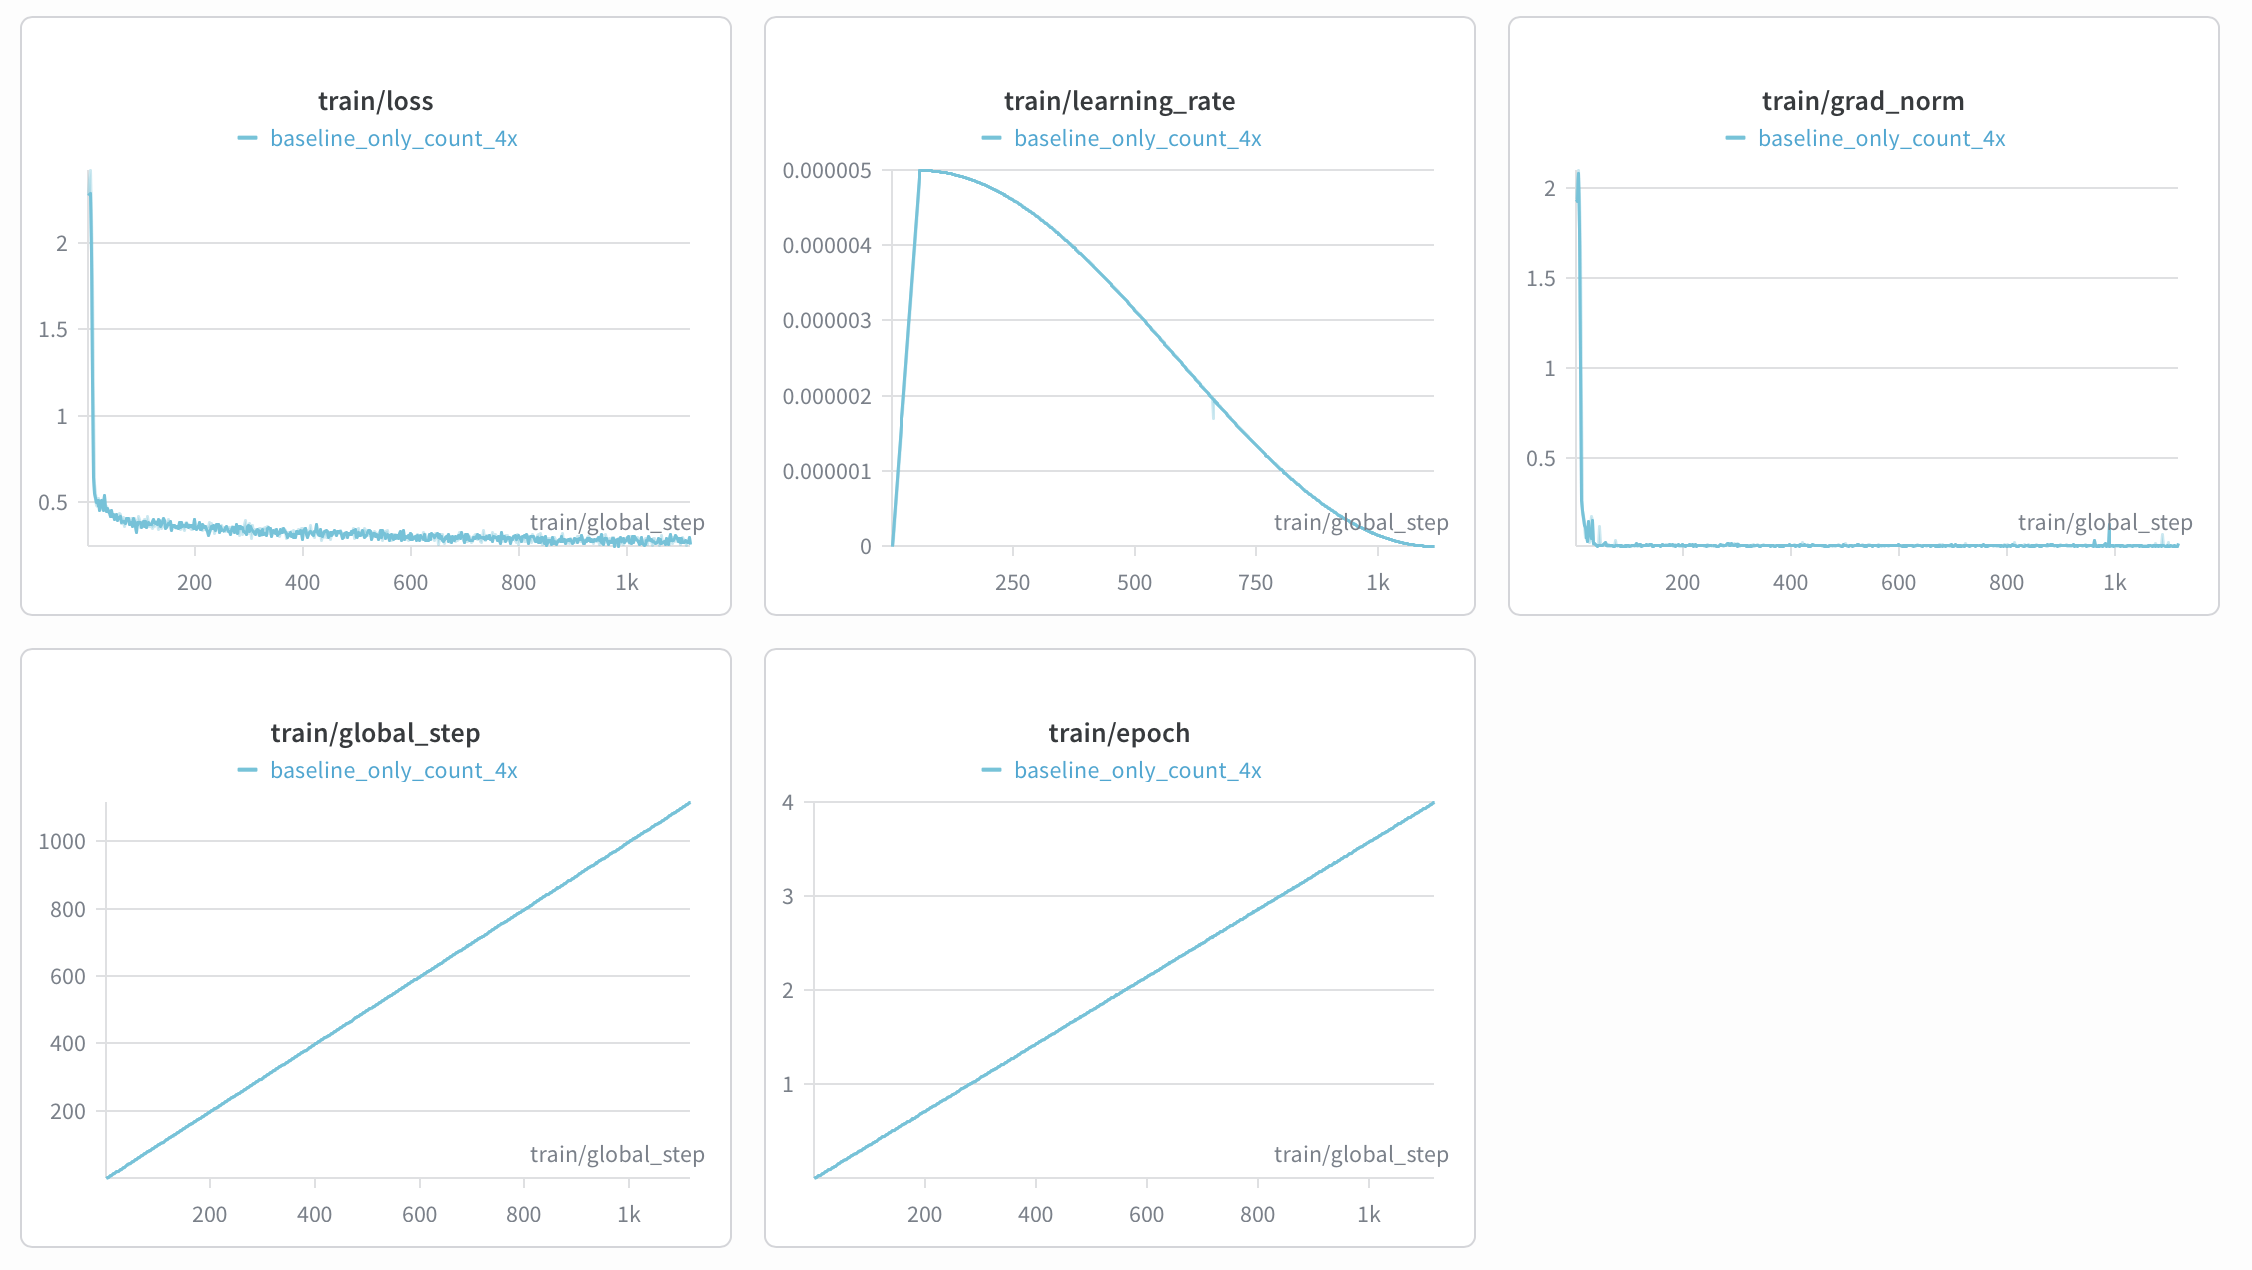
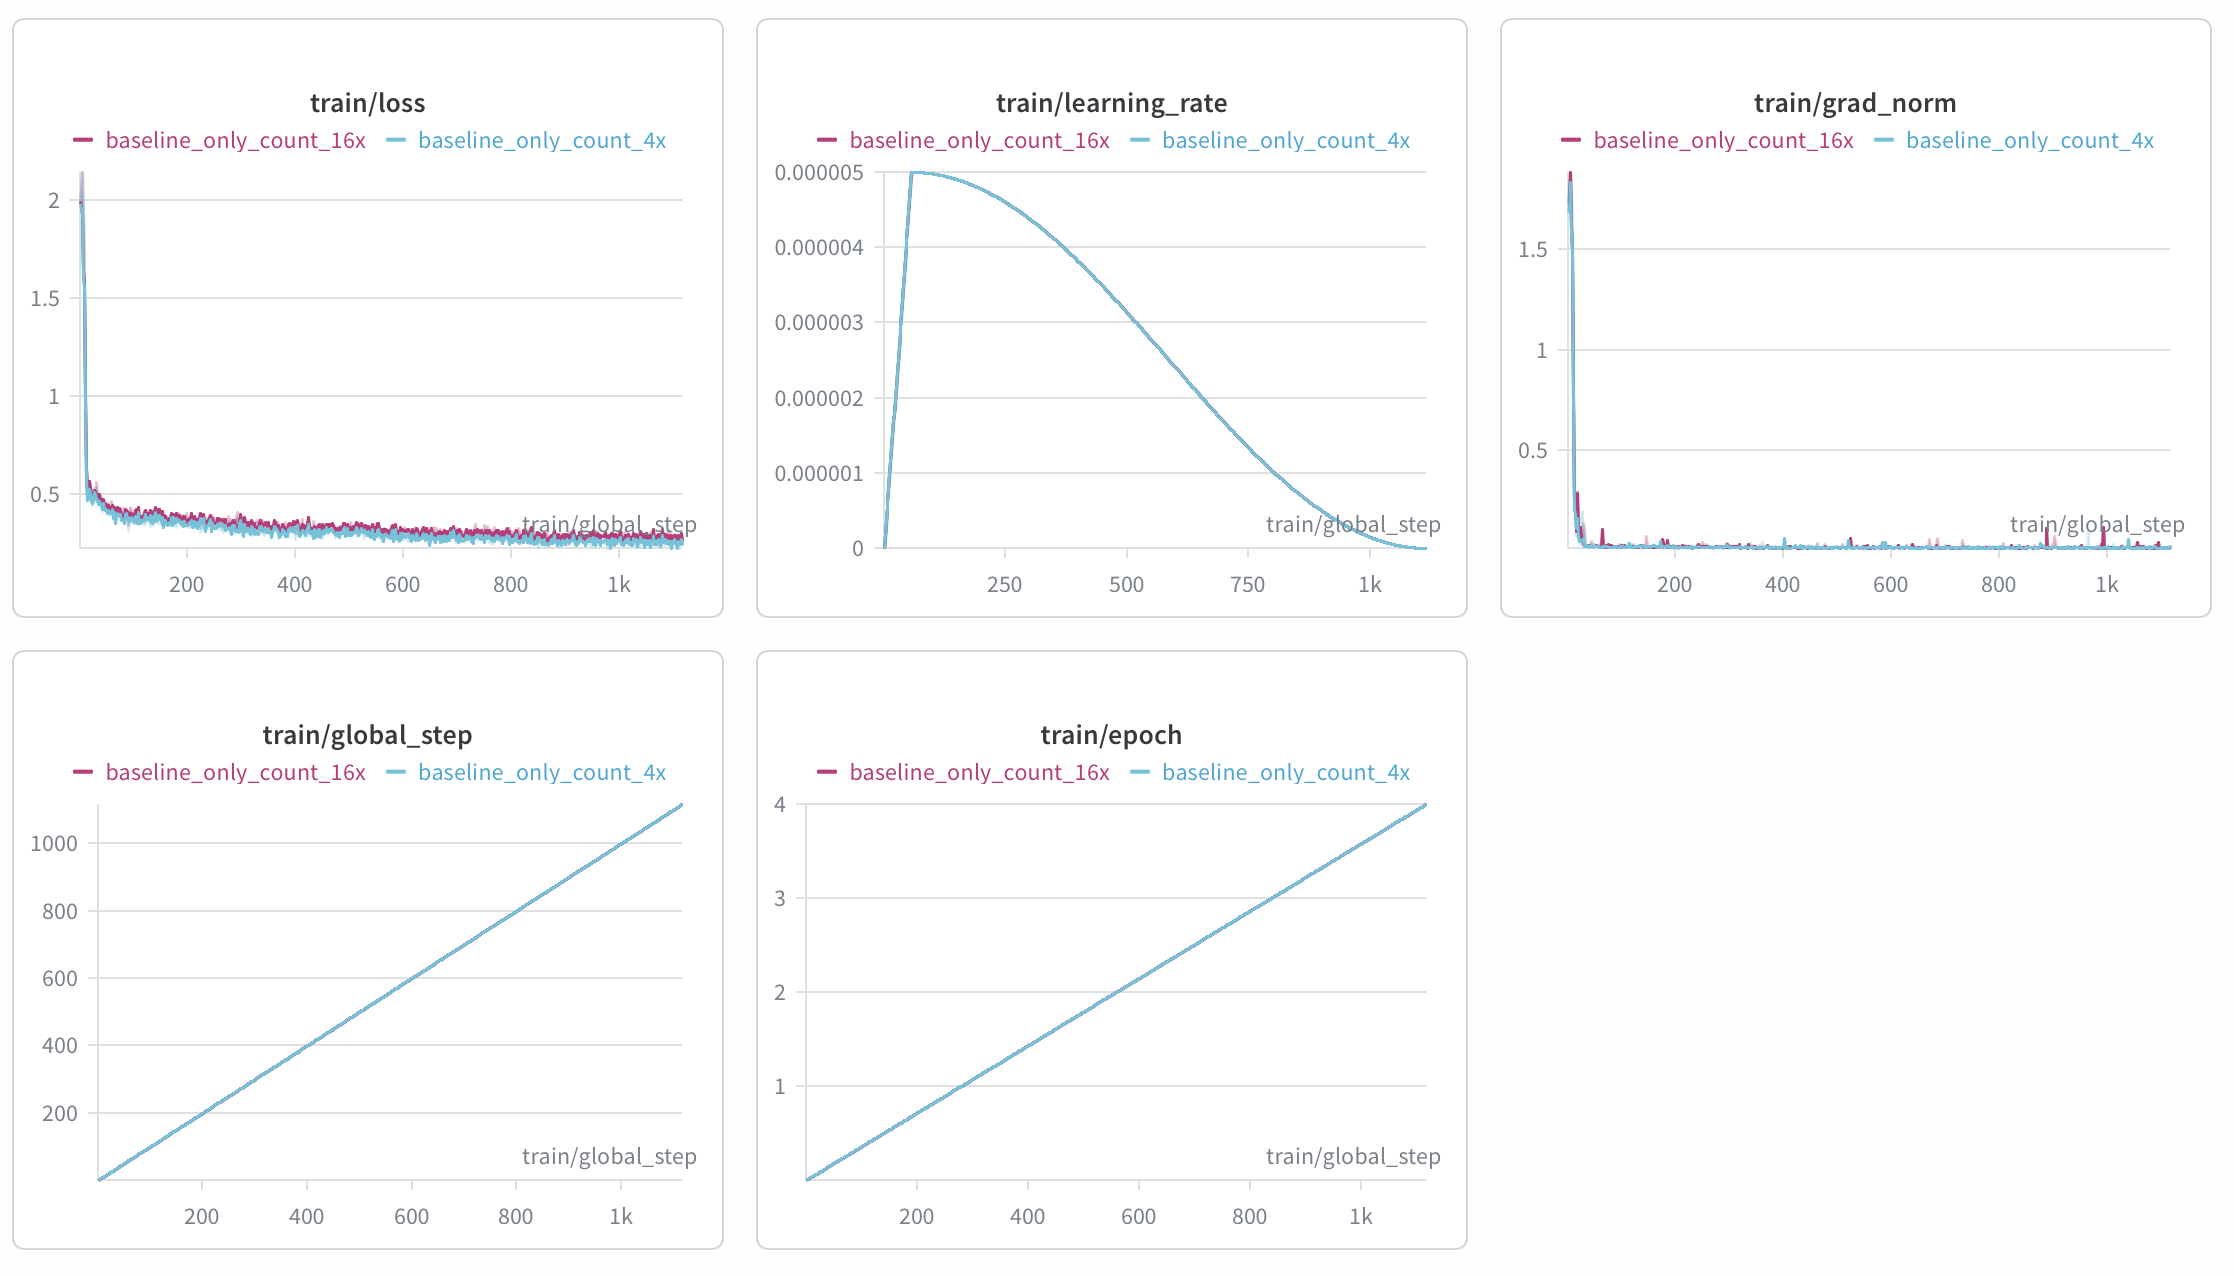
update MiniCPM-V 4.6 finetune docs

diff --git a/finetune/finetune_minicpmv46_zh.md b/finetune/finetune_minicpmv46_zh.md
@@ -6,20 +6,22 @@
 
 训练任务：
 
-- 输入一张图片和 counting 问题
-- 输出图片中目标类别的数量
-- assistant 目标输出为先输出每个目标物体点的位置，用 `x y` 坐标来表示，如 `<point>573 489</point>`，然后输出最终数量，例如 `0`、`3`、`10`。
+- 输入一张图片和一个计数问题
+- 输出图片中目标物体的数量
+- `assistant` 目标输出需要先给出每个目标物体点的位置，用 `x y` 坐标表示，如 `<point>573 489</point>`，再输出最终数量，例如 `0`、`3`、`10`。
 - 评测指标如下：
 
-| 指标 | 含义 |
-| --- | --- |
+
+| 指标    | 含义               |
+| ----- | ---------------- |
 | Acc@0 | 精确匹配率（预测值 = 真实值） |
+
 
 ## 2 使用 ms-swift 微调
 
 ### 2.1 环境说明
 
-- __最小可运行安装步骤__
+- **最小可运行安装步骤**
 
 ```bash
 conda create -n "MiniCPM-v_4.6-VL" python=3.10 -y
@@ -38,14 +40,14 @@ cd ms-swift
 pip install -e .
 ```
 
-- __依赖版本参考__
+- **依赖版本参考**
 
 ```text
 python                        3.10.0
 accelerate                    1.13.0
 deepspeed                     0.18.3
 flash_attn                    2.8.3
-ms_swift                      official latest-code
+ms_swift                      官方最新代码
 torch                         2.8.0
 torchvision                   0.23.0
 transformers                  5.7.0
@@ -53,26 +55,22 @@ transformers                  5.7.0
 
 ### 2.2 数据准备
 
-- __数据下载__：数据来源为 [allenai/pixmo-count](https://huggingface.co/datasets/allenai/pixmo-count)，先将 huggingface 文件下载下来
+- **数据下载**：数据来源为 [allenai/pixmo-count](https://huggingface.co/datasets/allenai/pixmo-count)，先从 Hugging Face 下载相关文件
 
 ```text
 hf download allenai/pixmo-count --repo-type dataset --local-dir path_to_your_hf_file
 ```
 
-- __图片下载__：根据 parquet 文件中image_url一列下载图片
-- __数据集构建__：需要将数据集转化为swift格式
-
+- **图片下载**：根据 parquet 文件中的 `image_url` 列下载图片
+- **数据集构建**：需要将数据集转换为 ms-swift 格式
   - 如果要支持带 points 训练，需要将 parquet 文件中 points 一列中的点坐标拼到 assistant 消息中。
   - 由于 MiniCPM-V 4.6 会将图片坐标归一化到 `0~1000`，因此也需要对 points 坐标进行以下处理：
-
     ```python
     def expected_norm(x_px: float, y_px: float, width: int, height: int) -> Tuple[int, int]:
         return int((x_px / width) * 1000.0), int((y_px / height) * 1000.0)
     ```
-
   - 如果要追求进一步的训练稳定，可以使用提示词隔离的技巧，在 assistant 前缀中加入 `<think>\n\n</think>\n\n`，并且在训练时使用 `--loss_scale ignore_empty_think` 参数保证空 think 在计算 loss 时被 mask 掉。
   - **数据格式参考：**
-
     ```json
     {
         "messages": [
@@ -96,7 +94,7 @@ hf download allenai/pixmo-count --repo-type dataset --local-dir path_to_your_hf_
 
 ### 2.3 启动训练
 
-- __最小可运行方式__：配置好模型路径、训练集路径、验证集路径和输出目录后，执行以下脚本。
+- **最小可运行方式**：配置好模型路径、训练集路径、验证集路径和输出目录后，执行以下脚本。
 
 ```bash
 run_swift.sh
@@ -157,27 +155,31 @@ ${SWIFT_BIN} sft \
   --report_to wandb
 ```
 
-- __关键参数说明__
+- **关键参数说明**
   - 训练支持 `16x`、`4x` 两种下采样率，通过 `export DOWNSAMPLE_MODE="${DOWNSAMPLE_MODE:-4x}"` 一行进行控制。
   - 当前版本的 `transformers` 对 Qwen3.5 系列的 packing 支持并不好，为了防止过拟合，请使用 `--packing false`。
   - 如果先前的数据集构建过程中进行了提示词隔离，即在 assistant 回复加入 `<think>\n\n</think>\n\n` 前缀，这样的改动需要结合 `--loss_scale ignore_empty_think` 来确保前缀在计算 loss 时被 mask 掉。
 
 ### 2.4 训练过程
 
-https://wandb.ai/majy24-tsinghua-university/MiniCPMV46-Counting/reports/swift---VmlldzoxNjgxMDk0Ng
+[https://wandb.ai/majy24-tsinghua-university/MiniCPMV46-Counting/reports/ms-swift---VmlldzoxNjgxMDk0Ng](https://wandb.ai/majy24-tsinghua-university/MiniCPMV46-Counting/reports/ms-swift---VmlldzoxNjgxMDk0Ng)
 
 <img src="./assets/finetune_minicpmv46/minicpmv46_swift_ft_dynamics.png" alt="ms-swift 训练过程" />
+
+
 
 ### 2.5 评测结果
 
 - 下表展示了两种视觉 Token 压缩率设置下的评测结果。训练与评测参数保持一致，并同时给出了所有 checkpoint 中的最高分数和前三名平均分数。
 
-| 模型 | 视觉 Token 压缩率 | Acc@0 Top1 | Acc@0 Avg.Top3 |
-| --- | --- | --- | --- |
-| MiniCPM-V 4.6 | 4 | 46.5 | N/A |
-| MiniCPM-V 4.6 | 16 | 51.8 | N/A |
-| Fine-tuned model | 4 | 79.7 | 79.3 |
-| Fine-tuned model | 16 | 84.3 | 83.9 |
+
+| 模型               | 视觉 Token 压缩率 | Acc@0 Top1 | Acc@0 Avg.Top3 |
+| ---------------- | ------------ | ---------- | -------------- |
+| MiniCPM-V 4.6    | 16           | 46.5       | N/A            |
+| MiniCPM-V 4.6    | 4            | 51.8       | N/A            |
+| Fine-tuned model | 16           | 79.7       | 79.3           |
+| Fine-tuned model | 4            | 84.3       | 83.9           |
+
 
 - 输出样例：
 
@@ -189,7 +191,7 @@ The respective coordinates of people: 82 638, 175 638, 264 648, 347 652, 439 629
 
 ### 3.1 环境说明
 
-- __最小可运行安装步骤__
+- **最小可运行安装步骤**
 
 ```bash
 conda create -n "MiniCPM-v_4.6-VL" python=3.11 -y
@@ -209,14 +211,14 @@ pip install -e .
 pip install -r requirements/metrics.txt -r requirements/deepspeed.txt
 ```
 
-- __依赖版本参考__
+- **依赖版本参考**
 
 ```text
 python                        3.11.0
 accelerate                    1.13.0
 deepspeed                     0.18.3
 flash_attn                    2.8.3
-llamafactory                  0.9.5 (modified)
+llamafactory                  官方最新代码
 torch                         2.8.0
 torchvision                   0.23.0
 transformers                  5.7.0
@@ -225,18 +227,18 @@ transformers                  5.7.0
 ### 3.2 数据准备
 
 - 准备方式与 2.2 相同
-- 注意：使用 llama-factory 训练，需要给出数据集对应的 dataset_info.json
+- 注意：使用 LlamaFactory 训练时，还需要提供数据集对应的 `dataset_info.json`
 
 ### 3.3 启动训练
 
-- __最小可运行方式__：准备好 `train.yaml` 后，执行下面脚本即可开始训练。
-
+- **最小可运行方式**：准备好 `train.yaml` 后，执行下面脚本即可开始训练。
 - 1. 配置 `train.yaml`
 
 ```yaml
 ### model
 model_name_or_path: /path/to/minicpm-v-4_6
 trust_remote_code: true
+flash_attn: fa2
 
 ### method
 stage: sft
@@ -253,6 +255,7 @@ template: minicpm_v_4_6
 cutoff_len: 4096
 preprocessing_num_workers: 16
 dataloader_num_workers: 16
+overwrite_cache: true
 
 ### output
 output_dir: /path/to/output_dir
@@ -274,7 +277,10 @@ num_train_epochs: 4.0
 lr_scheduler_type: cosine
 warmup_ratio: 0.05
 bf16: true
+max_grad_norm: 1000
 ddp_timeout: 180000000
+weight_decay: 0.1
+adam_beta2: 0.95
 ```
 
 - 2. 执行 `run.sh`
@@ -310,10 +316,30 @@ echo "Output dir: $OUTPUT_DIR"
 llamafactory-cli train "$CONFIG_FILE"
 ```
 
-- __补充说明__：如果你要使用 `batchsize > 1` 进行训练或评测，请务必确保在 `tokenizer_config.json` 加上 `"padding_side": "left"`，这是因为使用 LlamaFactory 进行训练时可能出现保存的 checkpoint 的 `tokenizer_config.json` 中 `"padding_side"` 为 `"right"` 的情况，导致 padding 出现问题，模型无法正常输出。
-
 ### 3.4 训练过程
 
-https://wandb.ai/majy24-tsinghua-university/MiniCPMV46-Counting-LF/reports/Llama-Factory---VmlldzoxNjgyMDcyMA
+[https://wandb.ai/majy24-tsinghua-university/MiniCPMV46-Counting-LF/reports/Llama-Factory---VmlldzoxNjgyNzk4NQ](https://wandb.ai/majy24-tsinghua-university/MiniCPMV46-Counting-LF/reports/Llama-Factory---VmlldzoxNjgyNzk4NQ)
 
 <img src="./assets/finetune_minicpmv46/minicpmv46_lf_ft_dynamics.png" alt="Llama-Factory 训练过程" />
+
+
+
+### 3.5 评测结果
+
+- 下表展示了两种视觉 Token 压缩率设置下的评测结果。训练与评测参数保持一致，并同时给出了所有 checkpoint 中的最高分数和前三名平均分数。
+
+
+| 模型               | 视觉 Token 压缩率 | Acc@0 Top1 | Acc@0 Avg.Top3 |
+| ---------------- | ------------ | ---------- | -------------- |
+| MiniCPM-V 4.6    | 16           | 46.5       | N/A            |
+| MiniCPM-V 4.6    | 4            | 51.8       | N/A            |
+| Fine-tuned model | 16           | 78.4       | 78.1           |
+| Fine-tuned model | 4            | 83.1       | 82.5           |
+
+
+- 输出样例：
+
+```text
+The respective coordinates of airplanes: 131 802, 208 602, 275 442, 337 277, 358 699, 428 523, 497 333, 587 602, 667 375, 865 393. So the total count is 10.
+```
+

diff --git a/finetune/finetune_minicpmv46.md b/finetune/finetune_minicpmv46.md
@@ -6,9 +6,9 @@ This section uses the [Counting](https://huggingface.co/datasets/allenai/pixmo-c
 
 Training task:
 
-- Input an image and a counting question
-- Output the number of target objects in the image
-- The target `assistant` output first lists the coordinates of each target object in `x y` format, for example, `<point>573 489</point>`, and then outputs the final count, such as `0`, `3`, or `10`.
+- Input: an image and a counting question
+- Output: the number of target objects in the image
+- The target `assistant` response first lists the coordinates of each target object in `x y` format, for example, `<point>573 489</point>`, and then gives the final count, such as `0`, `3`, or `10`.
 - The evaluation metric is shown below:
 
 | Metric | Meaning |
@@ -45,7 +45,7 @@ python                        3.10.0
 accelerate                    1.13.0
 deepspeed                     0.18.3
 flash_attn                    2.8.3
-ms_swift                      official latest-code
+ms_swift                      latest official code
 torch                         2.8.0
 torchvision                   0.23.0
 transformers                  5.7.0
@@ -60,7 +60,7 @@ hf download allenai/pixmo-count --repo-type dataset --local-dir path_to_your_hf_
 ```
 
 - __Download images__: download the images according to the `image_url` column in the parquet file
-- __Build the dataset__: convert the dataset into the swift format
+- __Build the dataset__: convert the dataset into the ms-swift format
 
   - To support training with points, you need to concatenate the coordinates from the `points` column in the parquet file into the assistant message.
   - Since MiniCPM-V 4.6 normalizes image coordinates to `0~1000`, the point coordinates also need to be transformed as follows:
@@ -164,7 +164,7 @@ ${SWIFT_BIN} sft \
 
 ### 2.4 Training Curves
 
-https://wandb.ai/majy24-tsinghua-university/MiniCPMV46-Counting/reports/swift---VmlldzoxNjgxMDk0Ng
+https://wandb.ai/majy24-tsinghua-university/MiniCPMV46-Counting/reports/ms-swift---VmlldzoxNjgxMDk0Ng
 
 <img src="./assets/finetune_minicpmv46/minicpmv46_swift_ft_dynamics.png" alt="ms-swift training curves" />
 
@@ -174,10 +174,10 @@ https://wandb.ai/majy24-tsinghua-university/MiniCPMV46-Counting/reports/swift---
 
 | Model | Visual Token Compression Ratio | Acc@0 Top1 | Acc@0 Avg.Top3 |
 | --- | --- | --- | --- |
-| MiniCPM-V 4.6 | 4 | 46.5 | N/A |
-| MiniCPM-V 4.6 | 16 | 51.8 | N/A |
-| Fine-tuned model | 4 | 79.7 | 79.3 |
-| Fine-tuned model | 16 | 84.3 | 83.9 |
+| MiniCPM-V 4.6 | 16 | 46.5 | N/A |
+| MiniCPM-V 4.6 | 4 | 51.8 | N/A |
+| Fine-tuned model | 16 | 79.7 | 79.3 |
+| Fine-tuned model | 4 | 84.3 | 83.9 |
 
 - Output example:
 
@@ -216,7 +216,7 @@ python                        3.11.0
 accelerate                    1.13.0
 deepspeed                     0.18.3
 flash_attn                    2.8.3
-llamafactory                  0.9.5 (modified)
+llamafactory                  latest official code
 torch                         2.8.0
 torchvision                   0.23.0
 transformers                  5.7.0
@@ -225,7 +225,7 @@ transformers                  5.7.0
 ### 3.2 Data Preparation
 
 - The preparation procedure is the same as in Section 2.2
-- Note: when training with llama-factory, you also need to provide the corresponding `dataset_info.json`
+- Note: when training with LlamaFactory, you also need to provide the corresponding `dataset_info.json`
 
 ### 3.3 Launch Training
 
@@ -237,6 +237,7 @@ transformers                  5.7.0
 ### model
 model_name_or_path: /path/to/minicpm-v-4_6
 trust_remote_code: true
+flash_attn: fa2
 
 ### method
 stage: sft
@@ -253,6 +254,7 @@ template: minicpm_v_4_6
 cutoff_len: 4096
 preprocessing_num_workers: 16
 dataloader_num_workers: 16
+overwrite_cache: true
 
 ### output
 output_dir: /path/to/output_dir
@@ -274,7 +276,10 @@ num_train_epochs: 4.0
 lr_scheduler_type: cosine
 warmup_ratio: 0.05
 bf16: true
+max_grad_norm: 1000
 ddp_timeout: 180000000
+weight_decay: 0.1
+adam_beta2: 0.95
 ```
 
 - 2. Run `run.sh`
@@ -310,10 +315,25 @@ echo "Output dir: $OUTPUT_DIR"
 llamafactory-cli train "$CONFIG_FILE"
 ```
 
-- __Additional note__: if you want to use `batchsize > 1` during training or evaluation, make sure to add `"padding_side": "left"` to `tokenizer_config.json`. When training with LlamaFactory, the saved checkpoint may contain `"padding_side": "right"` in `tokenizer_config.json`, which can cause padding issues and prevent the model from generating correctly.
-
 ### 3.4 Training Curves
 
-https://wandb.ai/majy24-tsinghua-university/MiniCPMV46-Counting-LF/reports/Llama-Factory---VmlldzoxNjgyMDcyMA
+https://wandb.ai/majy24-tsinghua-university/MiniCPMV46-Counting-LF/reports/Llama-Factory---VmlldzoxNjgyNzk4NQ
 
 <img src="./assets/finetune_minicpmv46/minicpmv46_lf_ft_dynamics.png" alt="Llama-Factory training curves" />
+
+### 3.5 Evaluation Results
+
+- The table below shows the evaluation results under two visual token compression ratios. Training and evaluation use the same settings, and both the best score among all checkpoints and the average score of the top three checkpoints are reported.
+
+| Model | Visual Token Compression Ratio | Acc@0 Top1 | Acc@0 Avg.Top3 |
+| --- | --- | --- | --- |
+| MiniCPM-V 4.6 | 16 | 46.5 | N/A |
+| MiniCPM-V 4.6 | 4 | 51.8 | N/A |
+| Fine-tuned model | 16 | 78.4 | 78.1 |
+| Fine-tuned model | 4 | 83.1 | 82.5 |
+
+- Output example:
+
+```text
+The respective coordinates of airplanes: 131 802, 208 602, 275 442, 337 277, 358 699, 428 523, 497 333, 587 602, 667 375, 865 393. So the total count is 10.
+```